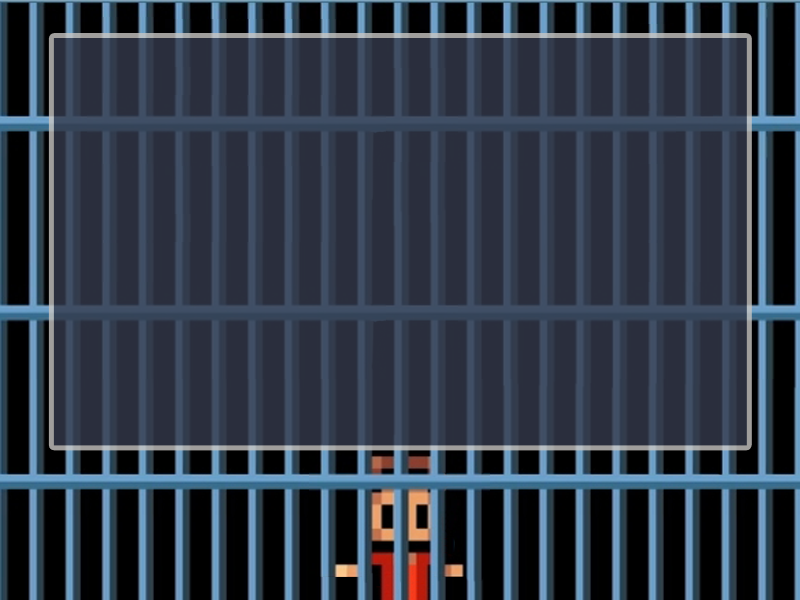
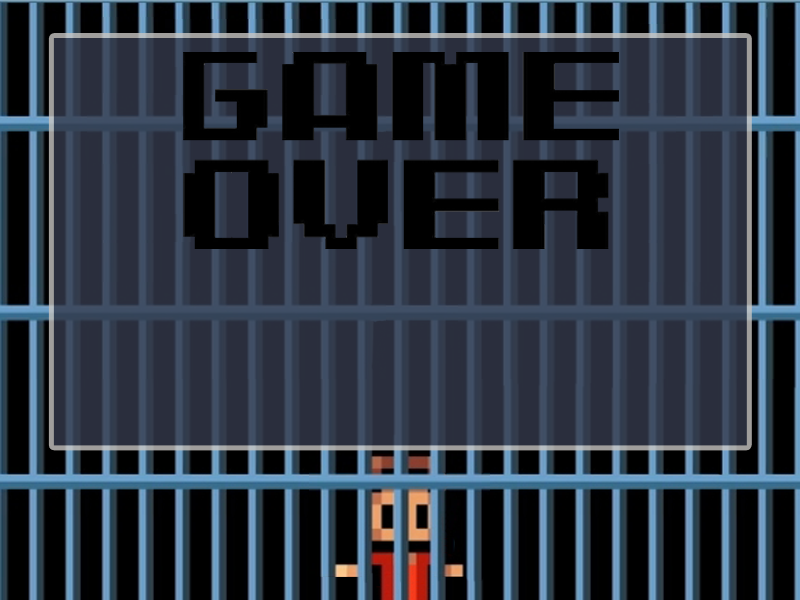
Le jeu est presque terminé

Changed region(s): [[0.2188, 0.06, 0.7812, 0.42]]

diff --git a/BehindBars/src/iut/valence/behindbars/windows/MainWindows.java b/BehindBars/src/iut/valence/behindbars/windows/MainWindows.java
@@ -97,7 +97,7 @@ public class MainWindows extends JFrame implements ActionListener
 		this.setVisible(true);
 
 		this.dialfinal = new JLabel(new ImageIcon(getClass().getResource("/pictures/diaggameover.png")));
-		this.dialfinal.setBounds(100, 200, 581, 99);
+		this.dialfinal.setBounds(100, 300, 581, 99);
 
 		this.dialogue = new JLabel(new ImageIcon(getClass().getResource("/pictures/diag.png")));
 		this.dialogue.setBounds(100, 400, 581, 99);

diff --git a/BehindBars/src/iut/valence/behindbars/ihm/IHM_Dialogue.java b/BehindBars/src/iut/valence/behindbars/ihm/IHM_Dialogue.java
@@ -36,7 +36,7 @@ public class IHM_Dialogue extends JTextArea
 	public IHM_Dialogue(String dialogue)
 	{
 		super(dialogue);
-		this.setBounds(120, 215, 525, 60);
+		this.setBounds(120, 315, 525, 60);
 		this.setLineWrap(true);
 		this.setEditable(false);
 	}
